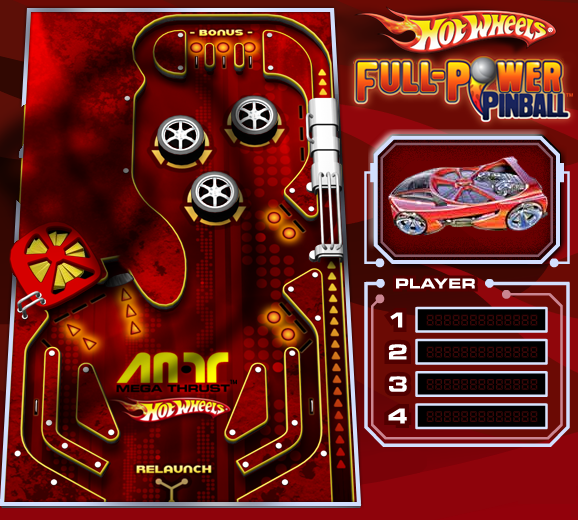
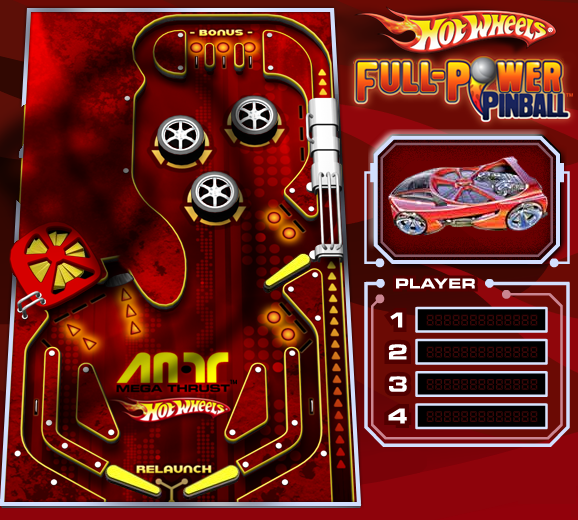
Added bumpers chains

Changed region(s): [[0.436, 0.4923, 0.5606, 0.5538], [0.3114, 0.8923, 0.436, 0.9538], [0.1557, 0.8923, 0.2803, 0.9538]]

diff --git a/Project/ModuleSceneIntro.cpp b/Project/ModuleSceneIntro.cpp
@@ -65,7 +65,7 @@ update_status ModuleSceneIntro::Update()
 	if(App->input->GetKey(SDL_SCANCODE_1) == KEY_DOWN)
 	{
 		//COMMENTED: CREATE BALL
-		circles.add(App->physics->CreateCircle(App->input->GetMouseX(), App->input->GetMouseY(), 8,true));
+		circles.add(App->physics->CreateCircle(App->input->GetMouseX(), App->input->GetMouseY(), 7,true));
 		circles.getLast()->data->listener = this;
 	}
 
@@ -266,6 +266,36 @@ void ModuleSceneIntro::DrawLayers()
 
 void ModuleSceneIntro::LoadChains()
 {
+	int bumper_right[12] = {
+	184, 487,
+	182, 492,
+	188, 497,
+	235, 480,
+	240, 472,
+	232, 464
+	};
+	App->physics->CreateChain(1, 0, bumper_right, 12);
+
+	int bumper_left[12] = {
+	105, 470,
+	106, 477,
+	153, 496,
+	161, 494,
+	159, 487,
+	115, 465
+	};
+	App->physics->CreateChain(1, 0, bumper_left, 12);
+
+	int bumper_top[12] = {
+	264, 282,
+	266, 290,
+	273, 290,
+	311, 265,
+	309, 257,
+	300, 255
+	};
+	App->physics->CreateChain(1, 0, bumper_top, 12);
+
 	int triangle_shape[16] = {
 	267, 421,
 	237, 440,
@@ -363,6 +393,7 @@ void ModuleSceneIntro::LoadChains()
 	234, 45
 	};
 	App->physics->CreateChain(2, -1, shape_at_top, 12);
+	App->physics->CreateChain(-28, -1, shape_at_top, 12);
 
 	int shape_at_top_left[20] = {
 	182, 80,
@@ -422,6 +453,8 @@ void ModuleSceneIntro::LoadChains()
 	353, 520
 	};
 	App->physics->CreateChain(0, 0, borders, 82);
+
+
 
 	App->physics->CreateCircle(217, 198, 25, false);
 	App->physics->CreateCircle(183, 138, 25, false);
